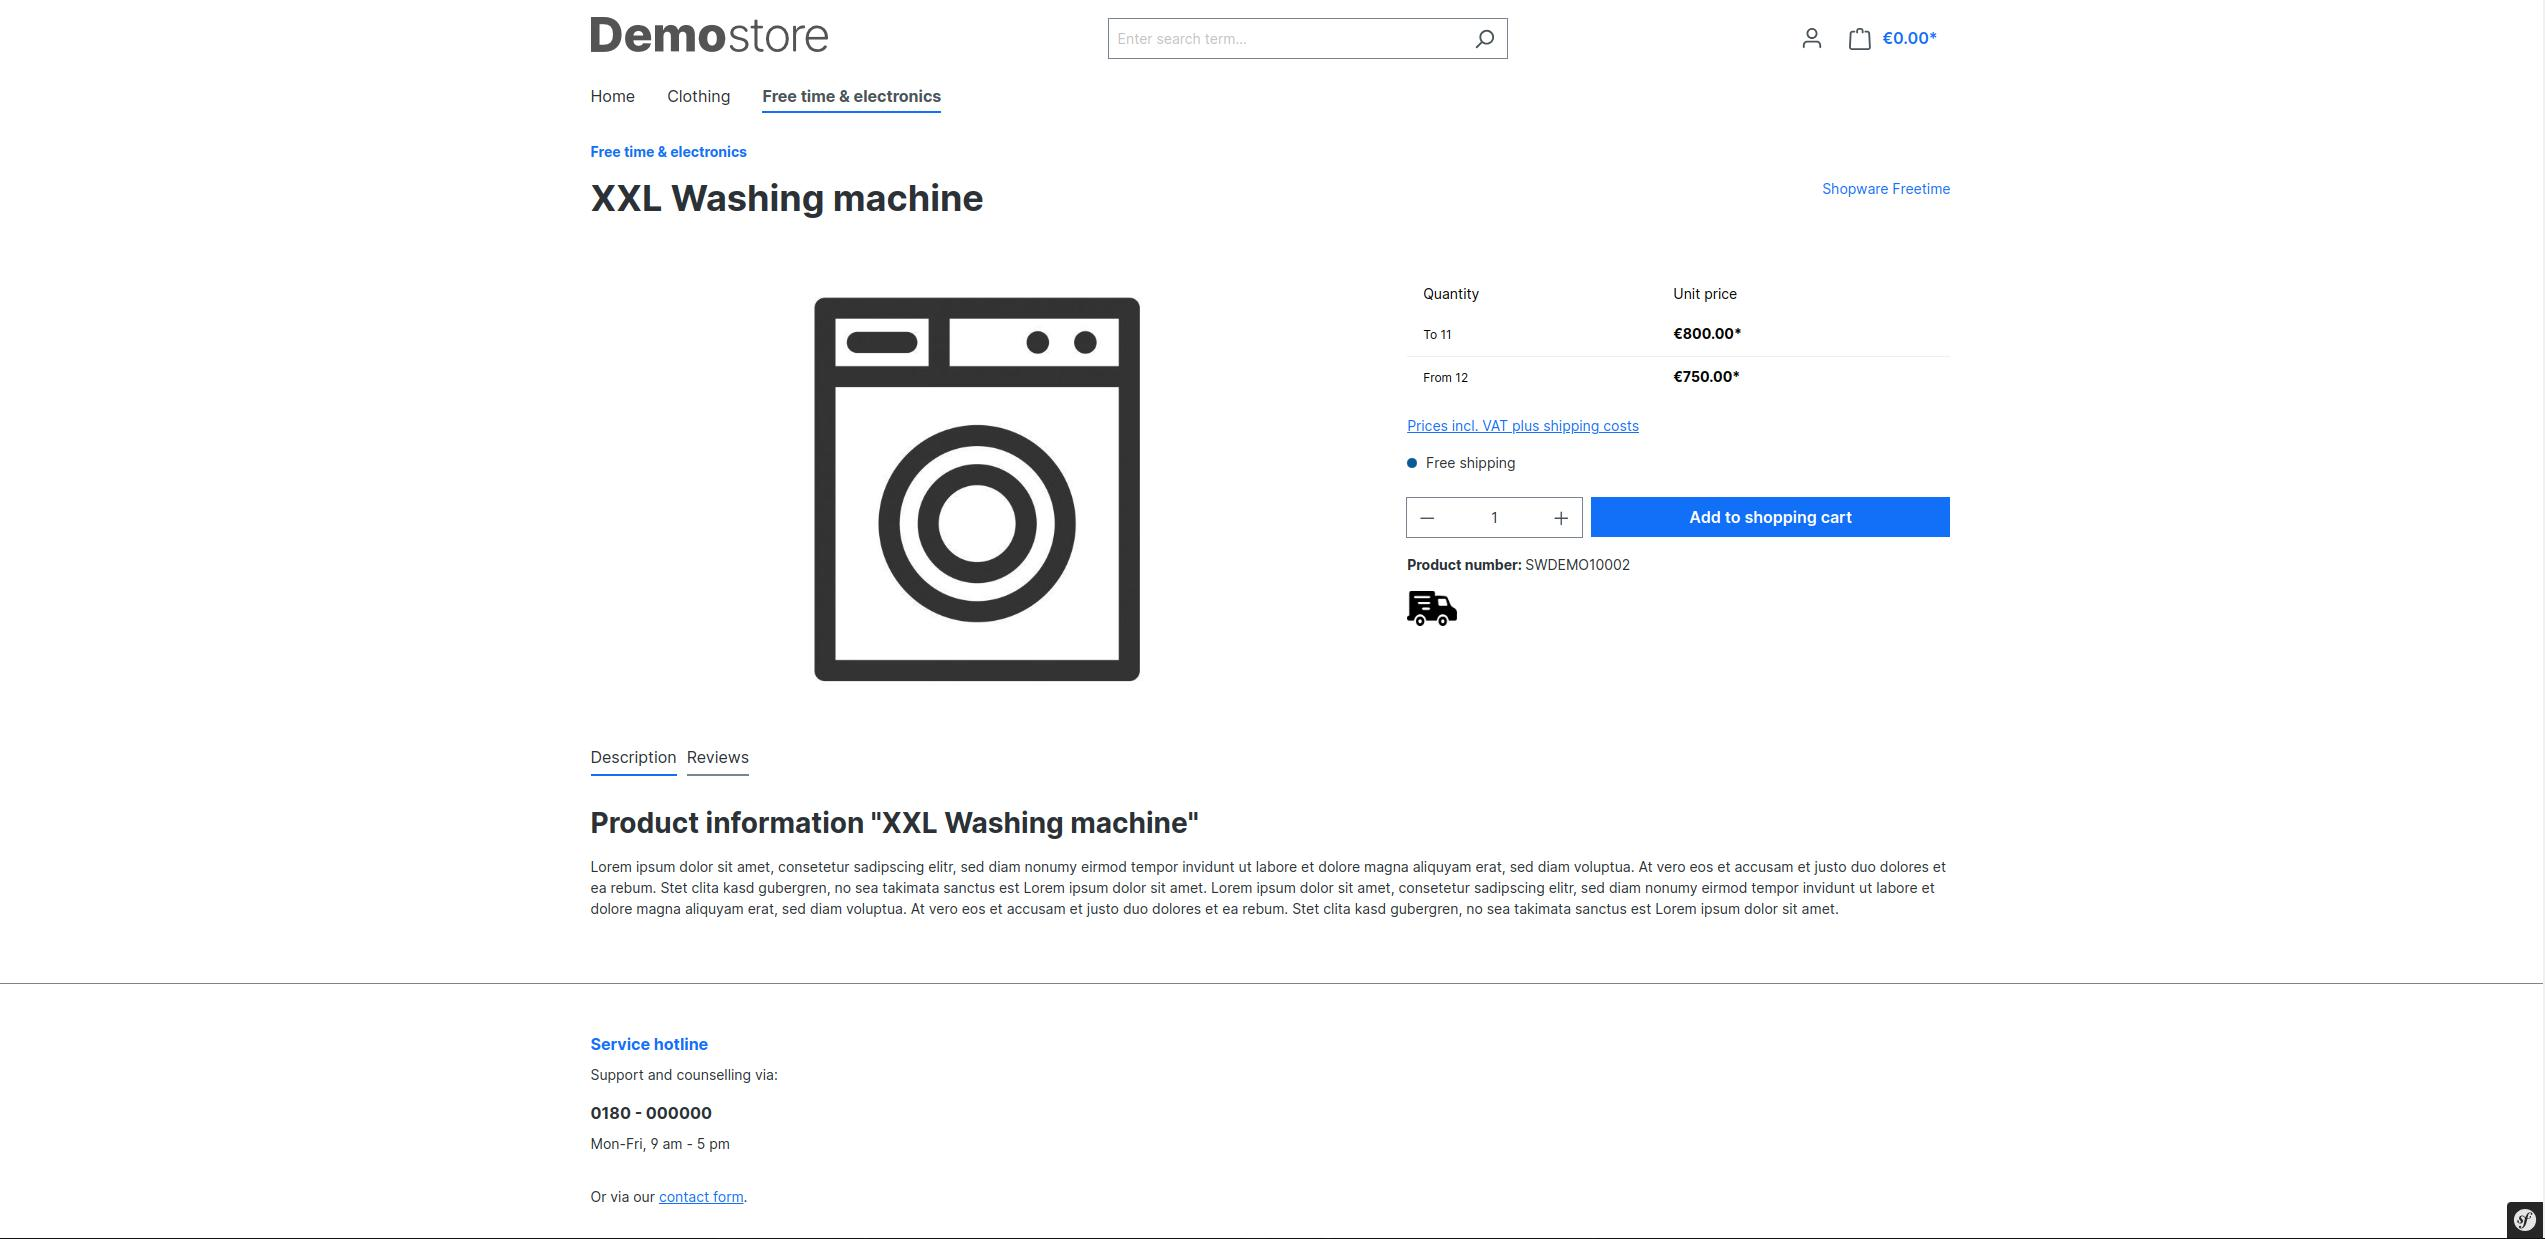
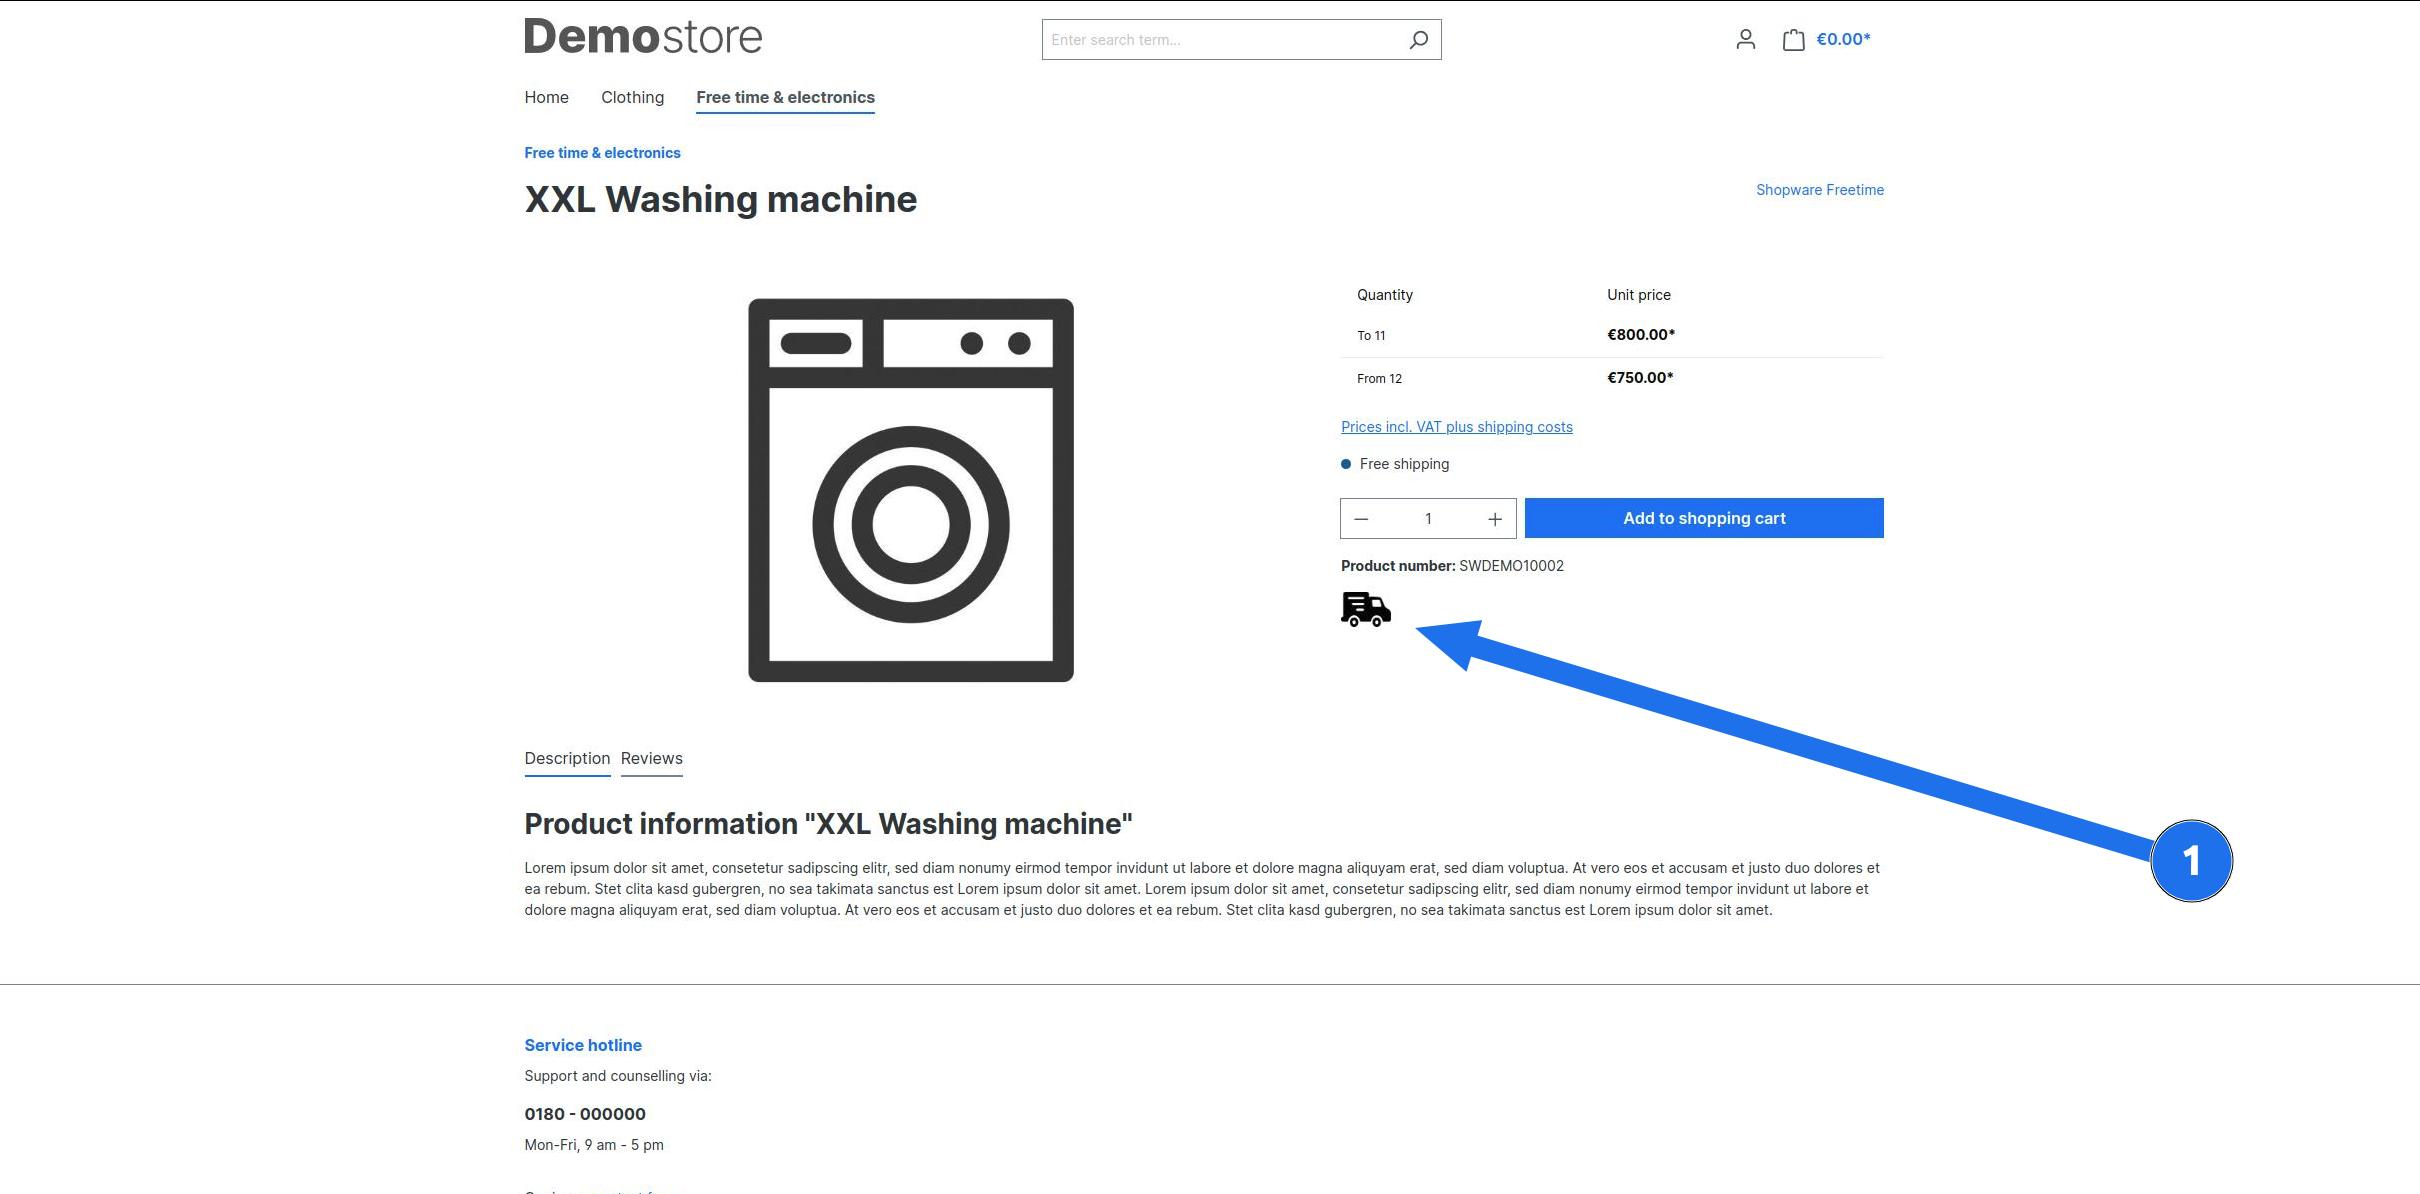
Add readme and image

diff --git a/README.md b/README.md
@@ -5,6 +5,6 @@ A plugin which shows how to add a `boolean` custom field to the product detail p
 ## Features
 
 - Add a `boolean` custom field to the product
-- Show truck image on product detail page if the custom field is set to true
+- Show truck image on the product detail page if the custom field is set to true
 
 ![Product detail page with custom field](src/Resources/public/images/demo-pdp-cargo.jpg)
